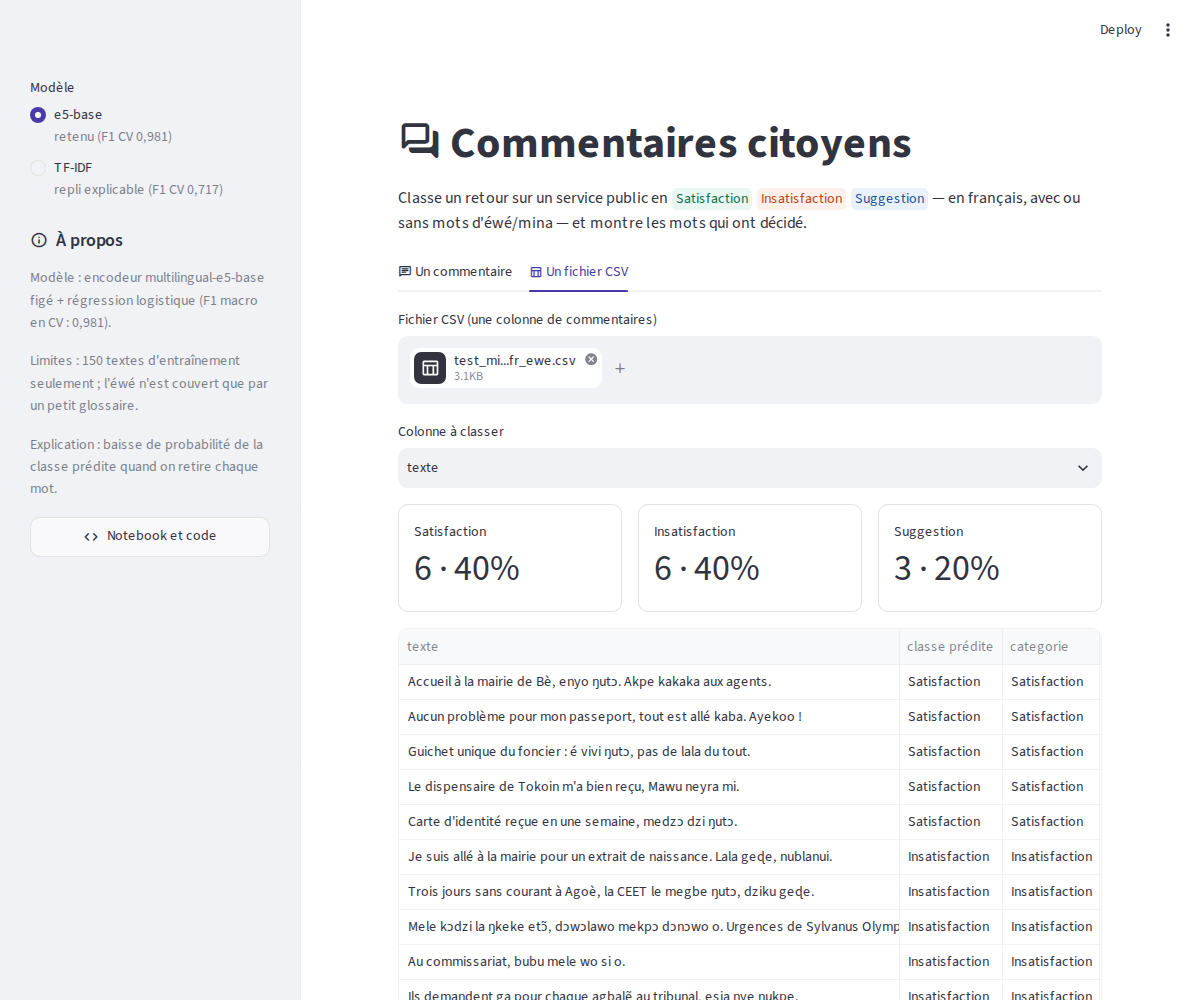
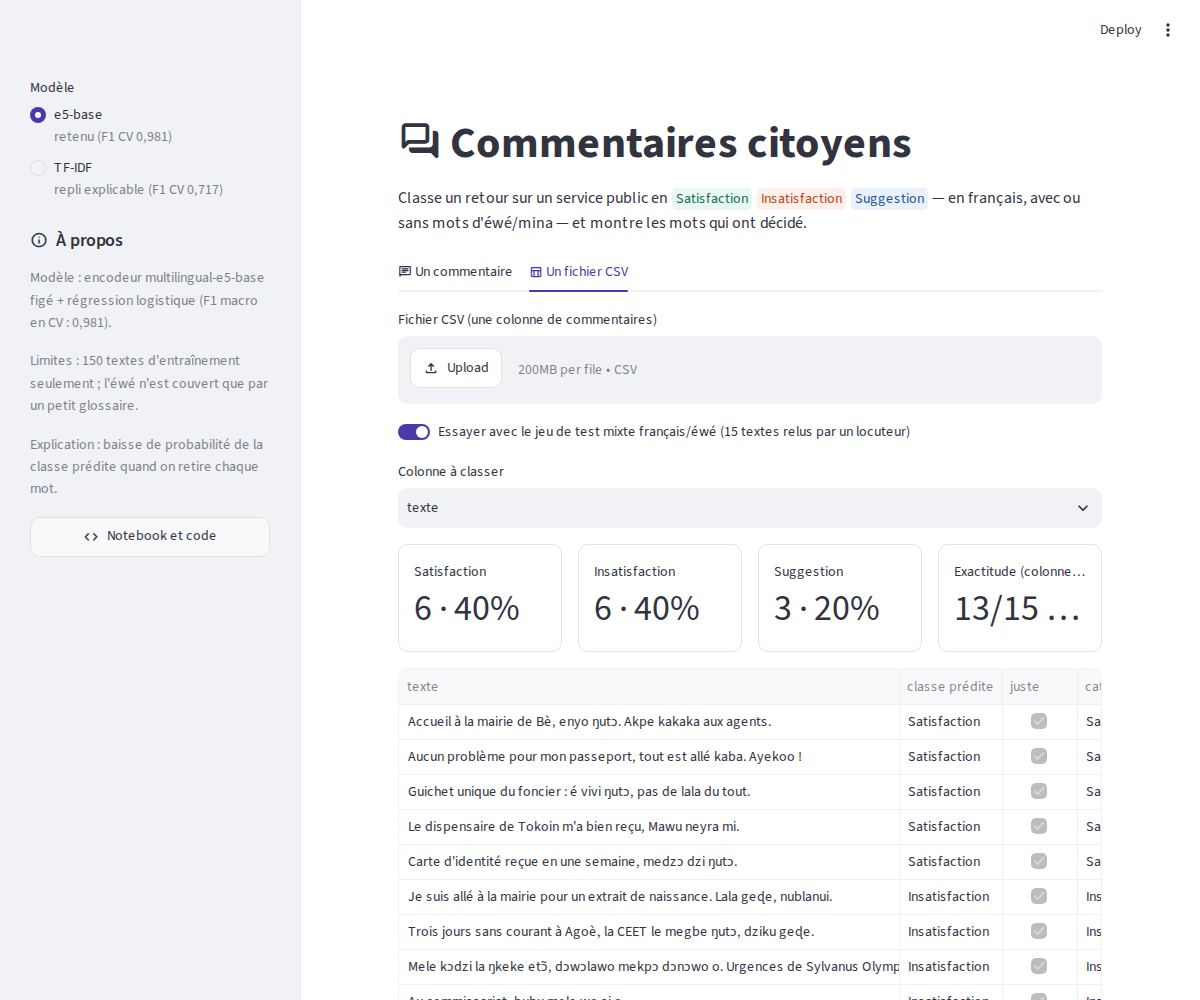
App : jeu de test mixte chargé par défaut dans l'onglet CSV, exactitude si une colonne de classes est présente

Changed region(s): [[0.3392, 0.341, 0.925, 1.0], [0.4933, 0.527, 0.74, 0.62]]

diff --git a/app.py b/app.py
@@ -11,6 +11,7 @@ import streamlit as st
 from preprocessing import EWE_LOOKUP, glossary_key
 
 MODELS = Path(__file__).parent / "models"
+DEMO_CSV = Path(__file__).parent / "test_mixte_fr_ewe.csv"
 COLORS = {"Satisfaction": "#1baf7a", "Insatisfaction": "#eb6834", "Suggestion": "#2a78d6"}
 BADGES = {"Satisfaction": ("green", ":material/sentiment_satisfied:"),
           "Insatisfaction": ("orange", ":material/sentiment_dissatisfied:"),
@@ -125,9 +126,11 @@ with single_tab:
 with batch_tab:
     # Cas d'usage réel d'une administration : classer d'un coup un export de retours citoyens.
     uploaded = st.file_uploader("Fichier CSV (une colonne de commentaires)", type="csv")
-    if uploaded is not None:
-        comments = pd.read_csv(uploaded)
-        text_columns = list(comments.select_dtypes("object").columns)
+    use_demo = st.toggle("Essayer avec le jeu de test mixte français/éwé (15 textes relus par un locuteur)",
+                         value=uploaded is None)
+    if uploaded is not None or use_demo:
+        comments = pd.read_csv(uploaded if uploaded is not None else DEMO_CSV)
+        text_columns = list(comments.select_dtypes(include=["object", "str"]).columns)
         if not text_columns:
             st.error("Aucune colonne de texte dans ce fichier.", icon=":material/error:")
         else:
@@ -141,8 +144,18 @@ with batch_tab:
             comments.insert(comments.columns.get_loc(column) + 1, "classe prédite",
                             [labels[i] for i in batch_probs.argmax(axis=1)])
             counts = comments["classe prédite"].value_counts().reindex(list(COLORS), fill_value=0)
-            for metric_column, (name, count) in zip(st.columns(3, border=True), counts.items()):
+            # Une colonne dont toutes les valeurs sont des classes connues sert de vérité terrain : on évalue.
+            label_columns = [c for c in comments.columns if c != "classe prédite"
+                             and comments[c].dropna().isin(list(COLORS)).all() and comments[c].notna().any()]
+            metric_columns = st.columns(4 if label_columns else 3, border=True)
+            for metric_column, (name, count) in zip(metric_columns, counts.items()):
                 metric_column.metric(name, f"{count} · {count / len(comments):.0%}")
-            st.dataframe(comments, hide_index=True)
+            if label_columns:
+                correct = comments["classe prédite"] == comments[label_columns[0]]
+                comments.insert(comments.columns.get_loc("classe prédite") + 1, "juste", correct)
+                metric_columns[3].metric("Justes", f"{correct.sum()}/{len(correct)}",
+                                         help=f"Comparaison avec la colonne « {label_columns[0]} » du fichier.")
+            st.dataframe(comments, hide_index=True,
+                         column_config={"juste": st.column_config.CheckboxColumn("juste", width="small")})
             st.download_button("Télécharger le CSV classé", comments.to_csv(index=False).encode("utf-8"),
                                "commentaires_classes.csv", "text/csv", icon=":material/download:", type="primary")
